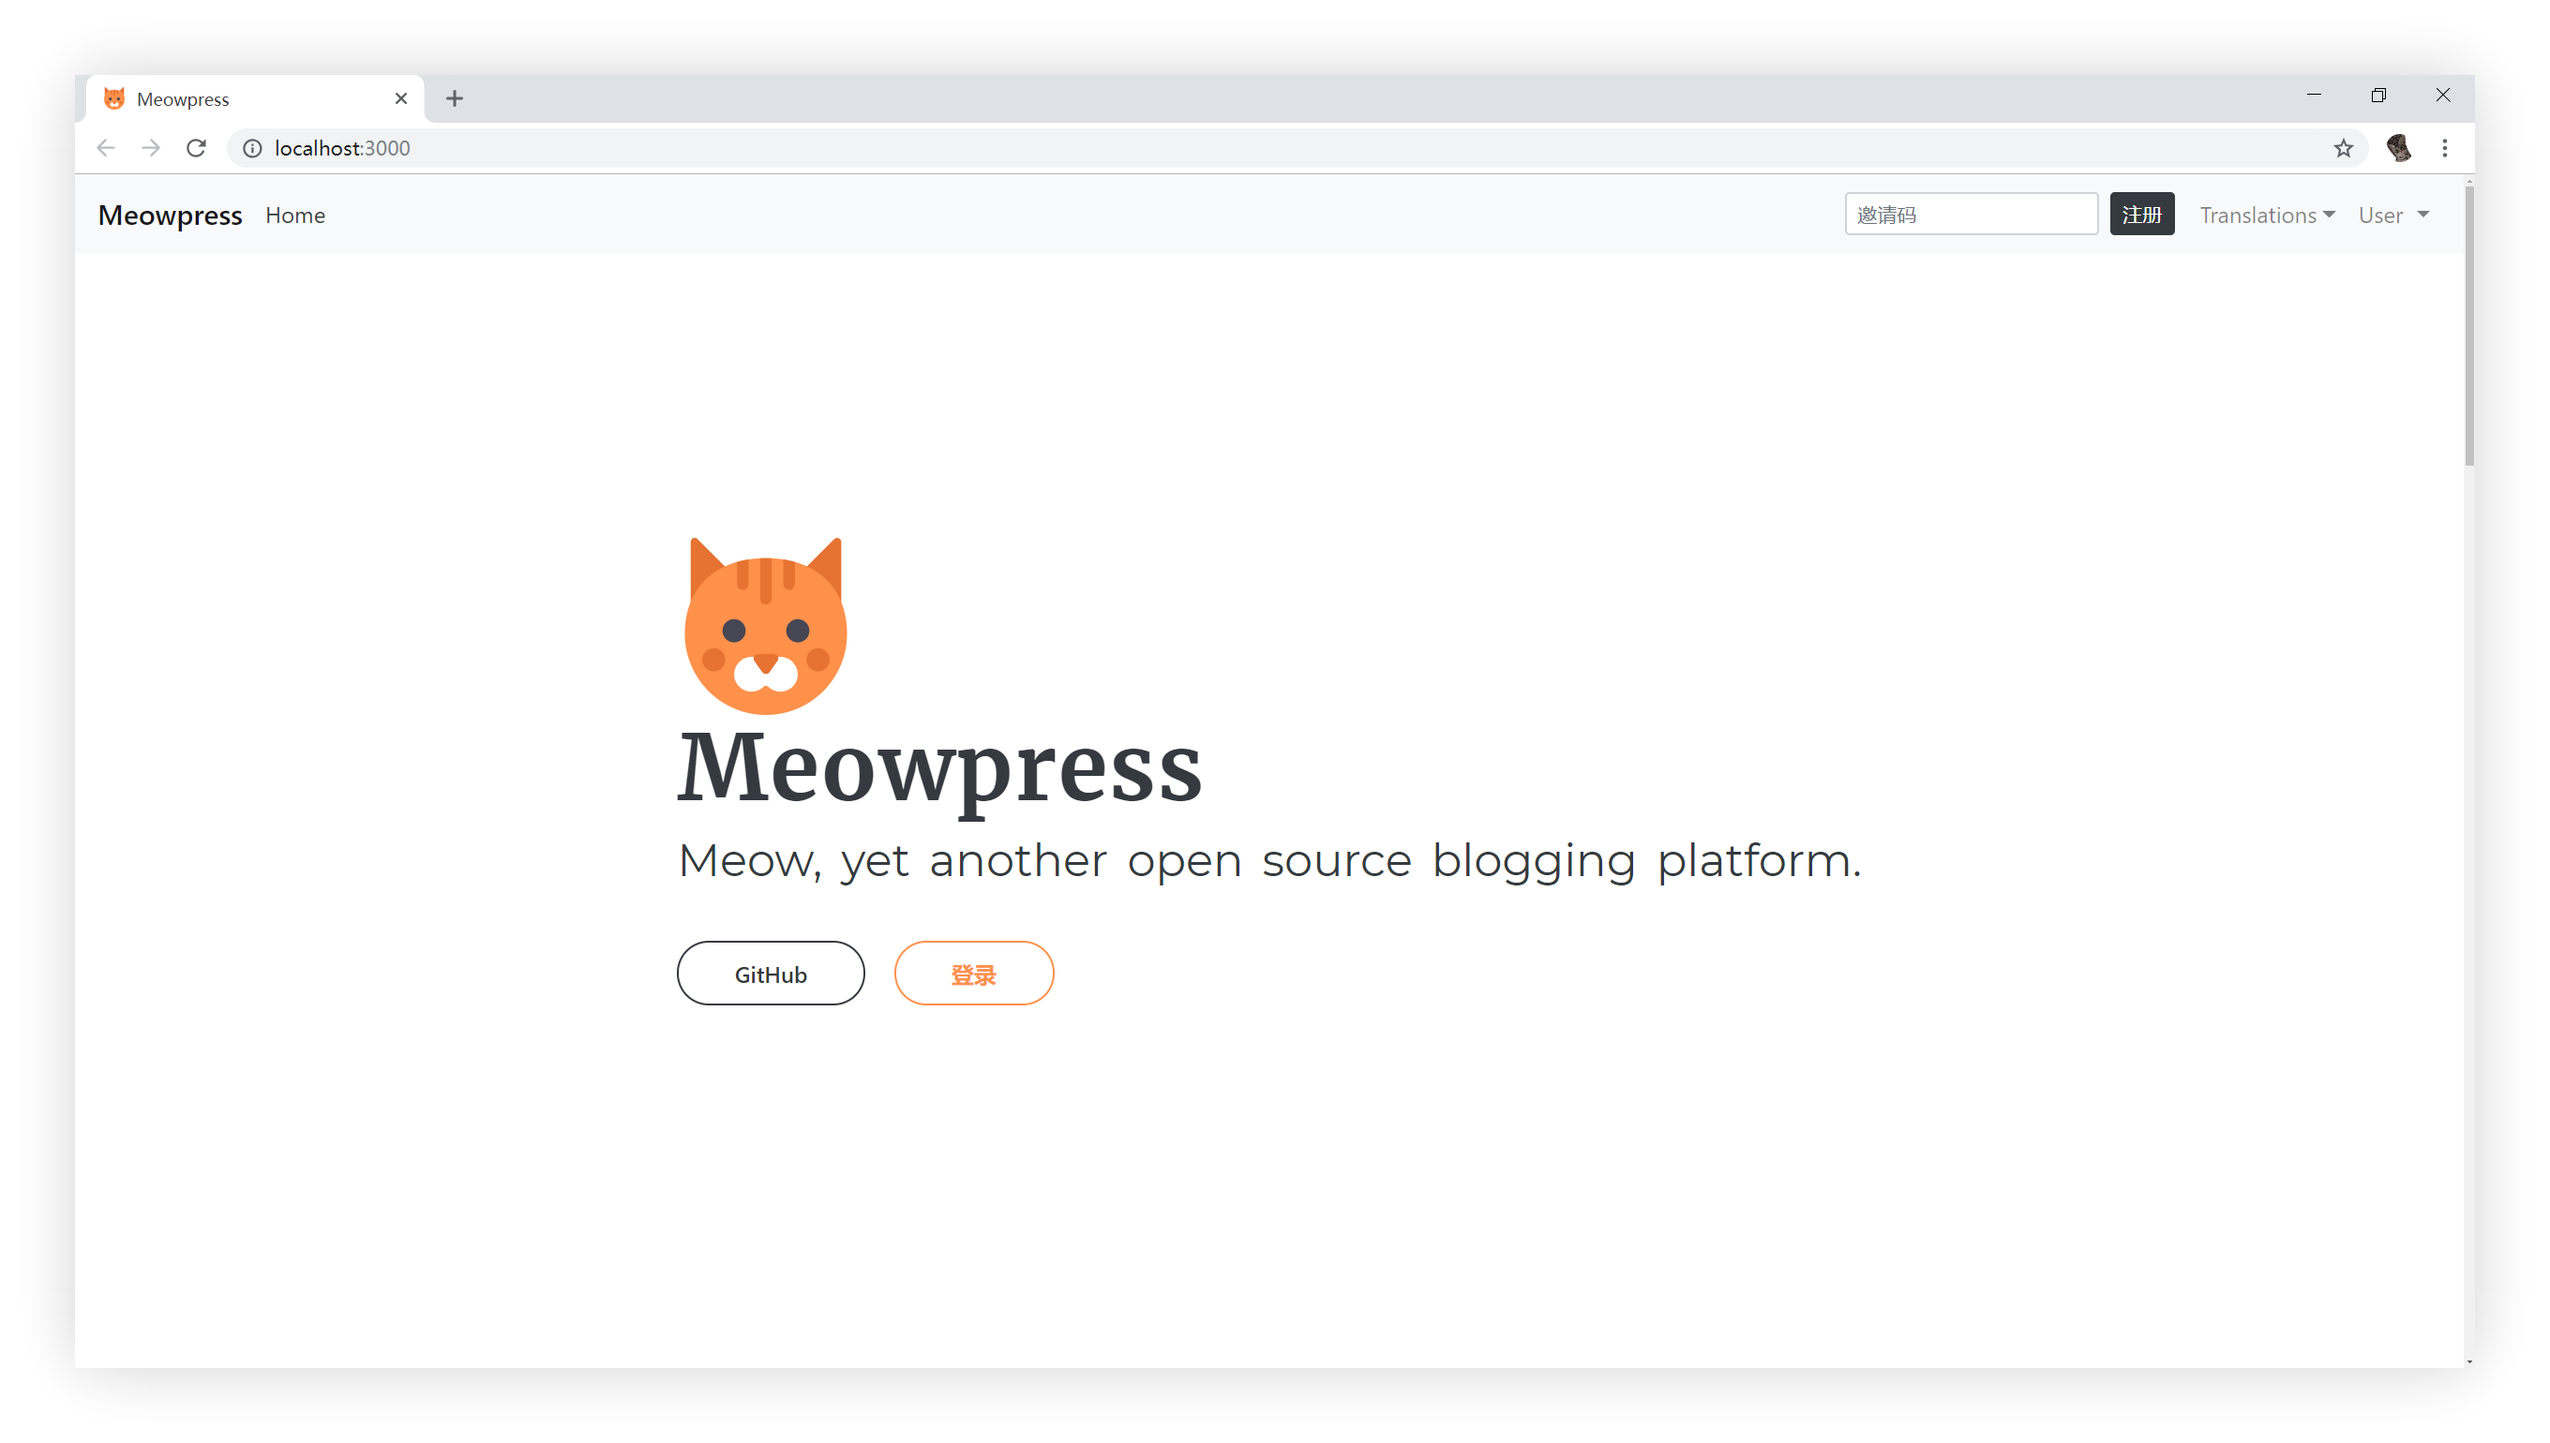
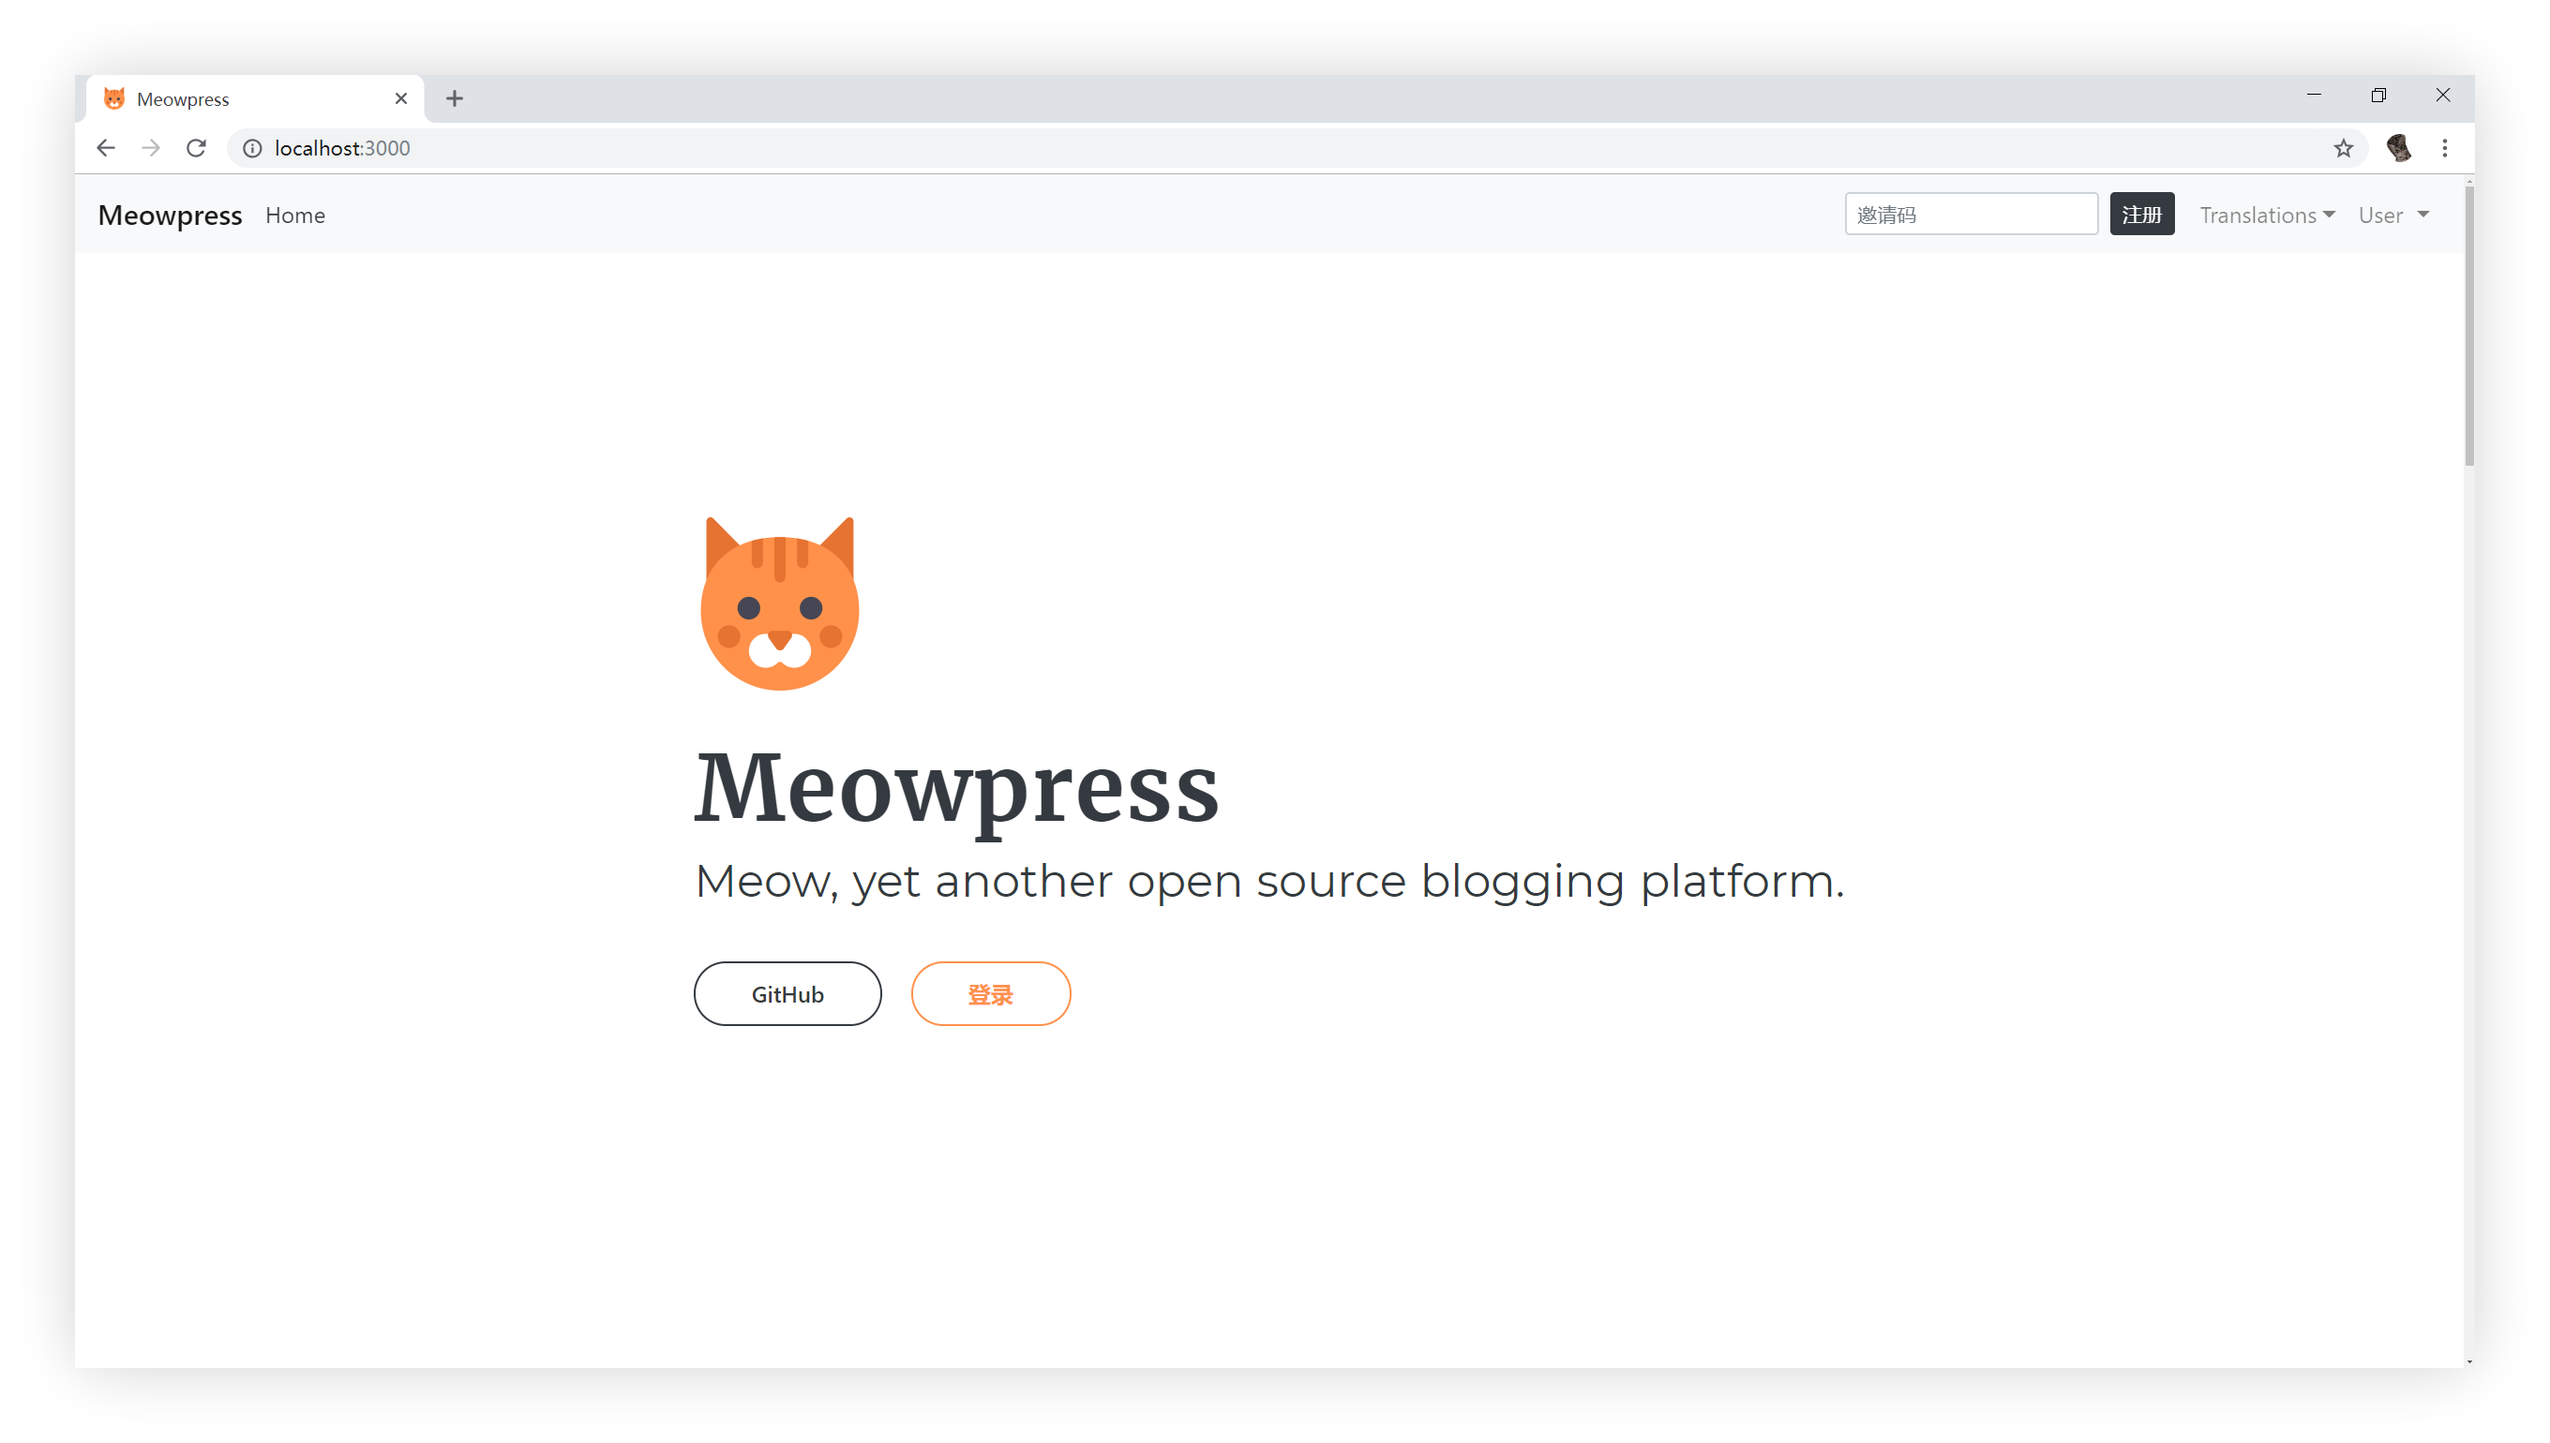
🚸 Change text black color

Changed region(s): [[0.25, 0.3429, 0.7188, 0.6234], [0.2812, 0.6545, 0.4062, 0.7169]]

diff --git a/pages/index.vue b/pages/index.vue
@@ -76,6 +76,7 @@ export default {
   font-size: 64px;
   color: #343A40;
   letter-spacing: 1px;
+  padding-top: 2rem;
 }
 
 .subtitle {
@@ -83,7 +84,7 @@ export default {
   font-weight: 400;
   font-size: 32px;
   color: #343A40;
-  word-spacing: 5px;
+  word-spacing: 1px;
   padding-bottom: 15px;
 }
 

diff --git a/layouts/default.vue b/layouts/default.vue
@@ -12,6 +12,7 @@ html {
   //   Roboto, 'Helvetica Neue', Arial, sans-serif;
   font-family: 'Montserrat', sans-serif;
   font-size: 16px;
+  color: #343A40;
   word-spacing: 1px;
   -ms-text-size-adjust: 100%;
   -webkit-text-size-adjust: 100%;

diff --git a/pages/login.vue b/pages/login.vue
@@ -123,7 +123,7 @@ export default {
   font-weight: 400;
   font-size: 32px;
   color: #343a40;
-  word-spacing: 5px;
+  word-spacing: 1px;
   padding-bottom: 15px;
 }
 
